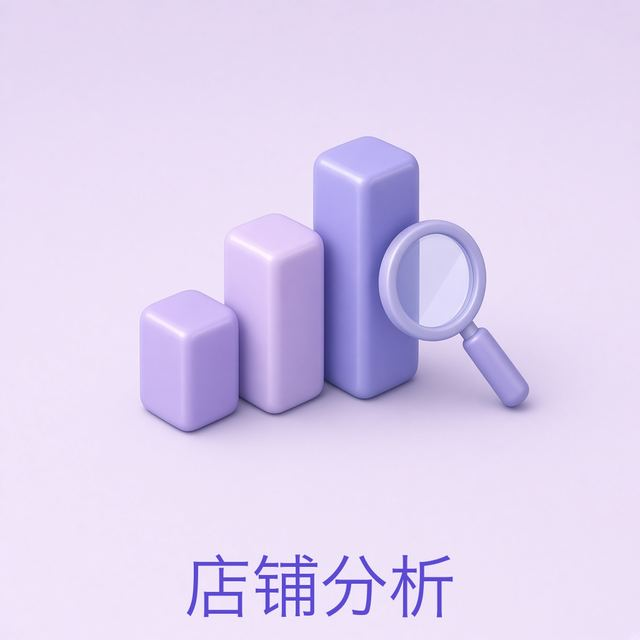
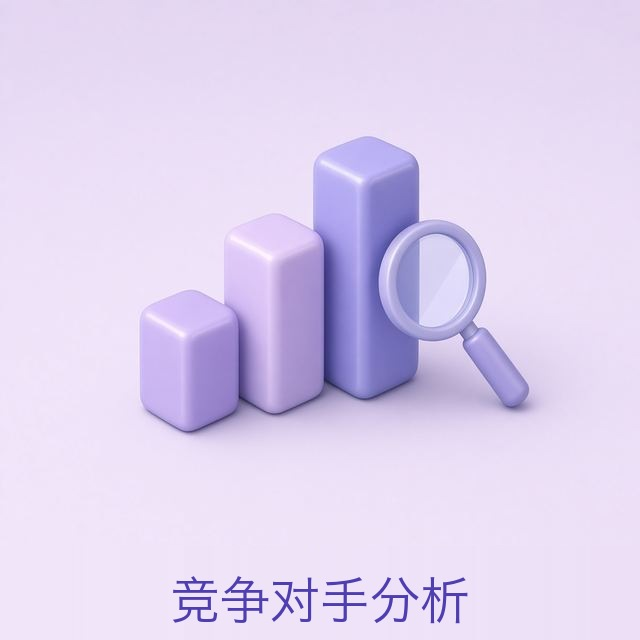
首页常用入口的店铺分析改为打开竞争对手分析。

Changed region(s): [[0.2812, 0.875, 0.7188, 0.9688]]

diff --git a/灵祺ERP小程序/pages/dashboard/dashboard.js b/灵祺ERP小程序/pages/dashboard/dashboard.js
@@ -44,9 +44,9 @@ const ENTRIES = [
   },
   {
     id: 'analysis',
-    title: '店铺分析',
+    title: '竞争对手分析',
     imageUrl: '/images/home/entry-analysis.jpg',
-    url: '/pages/store-analysis/store-analysis',
+    url: '/pages/competitors/competitors',
     tab: false,
   },
   {
